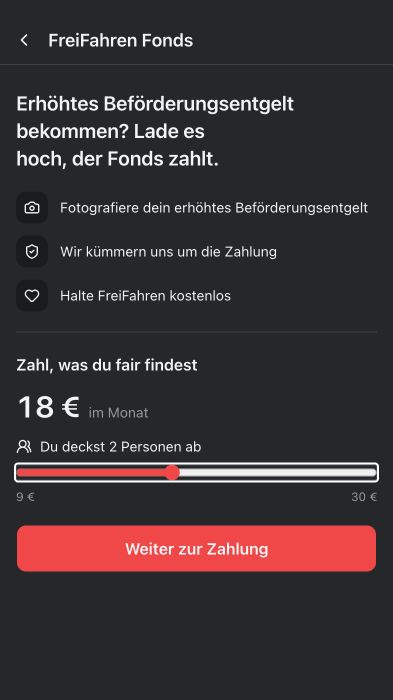
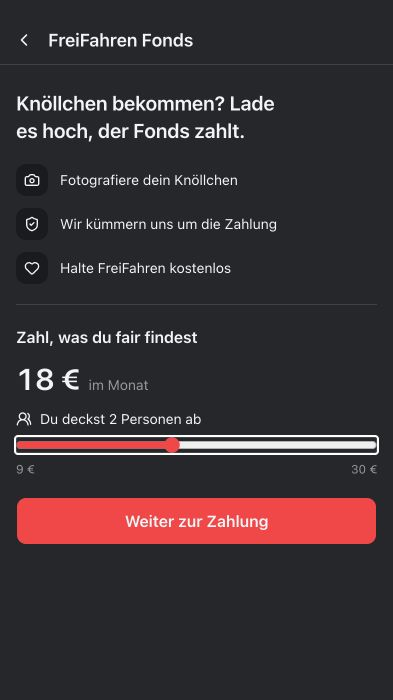
fix: use Knöllchen throughout German Fund copy

Changed region(s): [[0.0305, 0.42, 0.9771, 0.84], [0.0305, 0.12, 0.9466, 0.45]]

diff --git a/packages/frontend-next/src/components/fund/fund.i18n.ts b/packages/frontend-next/src/components/fund/fund.i18n.ts
@@ -129,22 +129,22 @@ i18n.addResourceBundle('de', NAMESPACE, {
   open: 'Solidaritätsfonds öffnen',
   title: 'FreiFahren Fonds',
   intro: 'Deine Uploads.',
-  headline: 'Erhöhtes Beförderungsentgelt bekommen? Lade es hoch, der Fonds zahlt.',
-  photoTitle: 'Fotografiere dein erhöhtes Beförderungsentgelt',
+  headline: 'Knöllchen bekommen? Lade es hoch, der Fonds zahlt.',
+  photoTitle: 'Fotografiere dein Knöllchen',
   paymentTitle: 'Wir kümmern uns um die Zahlung',
   freeTitle: 'Halte FreiFahren kostenlos',
   signInTitle: 'Zum Fortfahren anmelden',
-  uploadTitle: 'Erhöhtes Beförderungsentgelt hochladen',
+  uploadTitle: 'Knöllchen hochladen',
   takePhoto: 'Foto aufnehmen',
   uploadingPhoto: 'Dein Foto wird hochgeladen…',
-  uploadSuccess: 'Foto hochgeladen. Dein erhöhtes Beförderungsentgelt ist jetzt in Prüfung.',
+  uploadSuccess: 'Foto hochgeladen. Dein Knöllchen ist jetzt in Prüfung.',
   uploadEmpty: 'Dieses Foto ist leer. Bitte wähle ein anderes Foto.',
   uploadTooLarge: 'Dieses Foto ist zu groß. Bitte wähle eines mit weniger als 10 MB.',
   uploadWrongType: 'Bitte wähle ein Foto im Format JPEG, PNG, HEIC oder WebP.',
   uploadSessionExpired: 'Bitte melde dich erneut an, um dein Foto hochzuladen.',
   uploadUnavailable: 'Uploads sind vorübergehend nicht verfügbar. Bitte versuche es erneut.',
   uploadMembershipEnded:
-    'Deine Mitgliedschaft ist beendet, du kannst keine neuen erhöhten Beförderungsentgelte hochladen.',
+    'Deine Mitgliedschaft ist beendet, du kannst keine neuen Knöllchen hochladen.',
   uploadInterrupted:
     'Wir konnten den Upload nicht bestätigen. Prüfe deine Uploads unten, bevor du es erneut versuchst.',
   uploadSignIn: 'Erneut anmelden',
@@ -152,8 +152,7 @@ i18n.addResourceBundle('de', NAMESPACE, {
   uploadedAt: 'Hochgeladen',
   status: 'Status',
   fineStatus: { in_review: 'In Prüfung', paid: 'Vom Fonds bezahlt', declined: 'Abgelehnt' },
-  emptyUploads:
-    'Du hast noch keine erhöhten Beförderungsentgelte hochgeladen. Deine Einreichungen erscheinen hier.',
+  emptyUploads: 'Du hast noch keine Knöllchen hochgeladen. Deine Einreichungen erscheinen hier.',
   loadingHistory: 'Dein Verlauf wird geladen…',
   historyError: 'Dein Verlauf konnte nicht geladen werden. Bitte versuche es erneut.',
   retry: 'Erneut versuchen',
@@ -169,11 +168,11 @@ i18n.addResourceBundle('de', NAMESPACE, {
     'Deine erste Zahlung ist noch nicht bei uns. Wenn du gerade bezahlt hast, aktualisiert sich das gleich.',
   canceledTitle: 'Du bist nicht abgesichert',
   canceledBody:
-    'Deine Mitgliedschaft ist beendet, neue erhöhte Beförderungsentgelte sind nicht mehr gedeckt. Bereits hochgeladene bearbeiten wir weiter. Du kannst jederzeit wieder beitreten.',
+    'Deine Mitgliedschaft ist beendet, neue Knöllchen sind nicht mehr gedeckt. Bereits hochgeladene bearbeiten wir weiter. Du kannst jederzeit wieder beitreten.',
   statusProtected: 'Du bist abgesichert',
   statusEnding: 'Abgesichert bis {{date}}',
   statusEndingBody:
-    'Deine Mitgliedschaft verlängert sich nicht. Erhöhte Beförderungsentgelte nach diesem Datum sind nicht gedeckt, außer du setzt sie fort.',
+    'Deine Mitgliedschaft verlängert sich nicht. Knöllchen nach diesem Datum sind nicht gedeckt, außer du setzt sie fort.',
   statusPastDue: 'Zahlung überfällig',
   memberPastDueBody:
     'Dein letzter Beitrag konnte nicht eingezogen werden. Zahl den offenen Betrag unter „Mitgliedschaft verwalten“, damit du abgesichert bleibst.',
@@ -181,7 +180,7 @@ i18n.addResourceBundle('de', NAMESPACE, {
   renewsOn: 'Verlängert sich am {{date}}',
   rulesTitle: 'Was du wissen musst',
   rulesDone: 'Verstanden',
-  ruleDontPayTitle: 'Zahl das erhöhte Beförderungsentgelt nicht selbst',
+  ruleDontPayTitle: 'Zahl das Knöllchen nicht selbst',
   ruleDontPayBody:
     'Reich es beim Fonds ein und warte auf uns. Was du schon selbst bezahlt hast, können wir nicht erstatten.',
   ruleNoTicketTitle: 'Der Fonds ersetzt kein Ticket',
